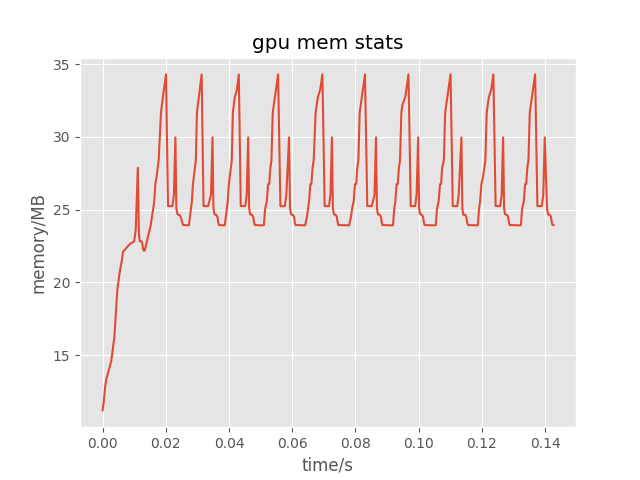
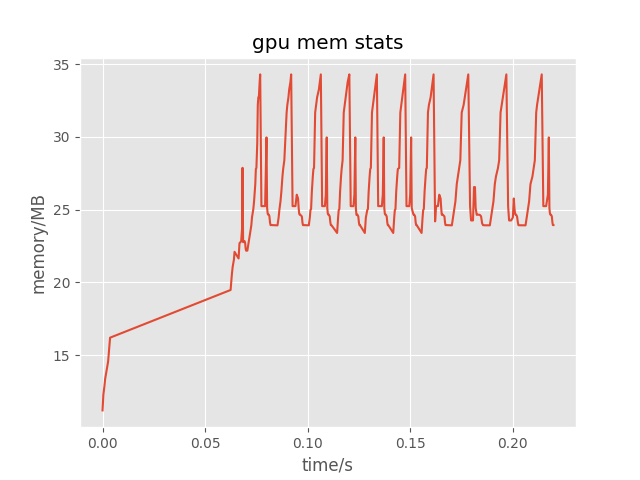
polish code

diff --git a/pytorchmemtracer/ophooks/_memtracer_ophook.py b/pytorchmemtracer/ophooks/_memtracer_ophook.py
@@ -80,8 +80,7 @@ class MemTracerOpHook(BaseOpHook):
 
     def pre_fwd_exec(self, module: torch.nn.Module, *args):
         if module.training:
-            if self.async_mem_monitor.is_measuring():
-                self.async_mem_monitor.finish()
+            self.async_mem_monitor.finish()
             self.async_mem_monitor.start()
             # print(f'FWD PRE {module.__class__.__name__}')
 
@@ -93,21 +92,21 @@ class MemTracerOpHook(BaseOpHook):
     def pre_bwd_exec(self, module: torch.nn.Module, input, output):
         assert isinstance(module, torch.nn.Module)
         if module.training:
-            if self.async_mem_monitor.is_measuring():
-                self.async_mem_monitor.finish()
+            self.async_mem_monitor.finish()
             self.async_mem_monitor.start()
             # print(f'BWD PRE {module.__class__.__name__}')
 
     def post_bwd_exec(self, module: torch.nn.Module, input):
         assert isinstance(module, torch.nn.Module)
         if module.training:
-            if self.async_mem_monitor.is_measuring():
-                self.async_mem_monitor.finish()
-            # print(f'BWD POST {module.__class__.__name__}')
-        
-    def post_iter(self):
-        if self.async_mem_monitor.is_measuring():
             self.async_mem_monitor.finish()
+            # print(f'BWD POST {module.__class__.__name__}')
+    
+    def pre_iter(self):
+        pass
+
+    def post_iter(self):
+        self.async_mem_monitor.finish()
         # print(f'post_iter')
 
     def save_results(self, filename):
